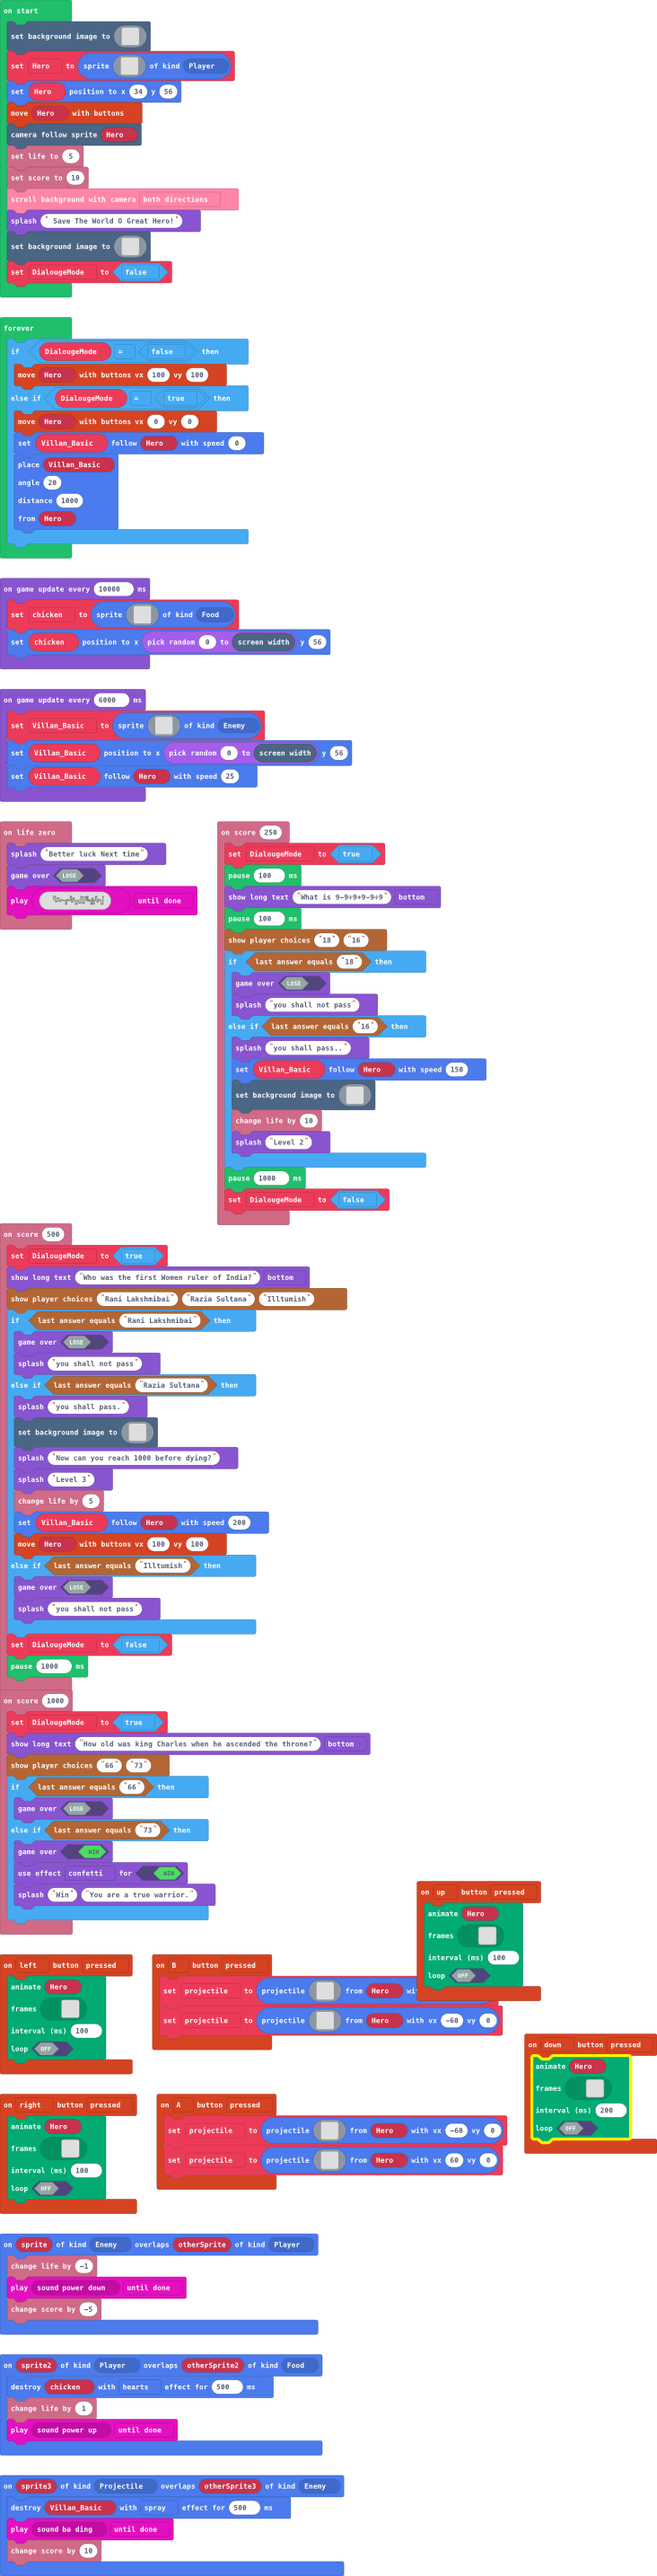
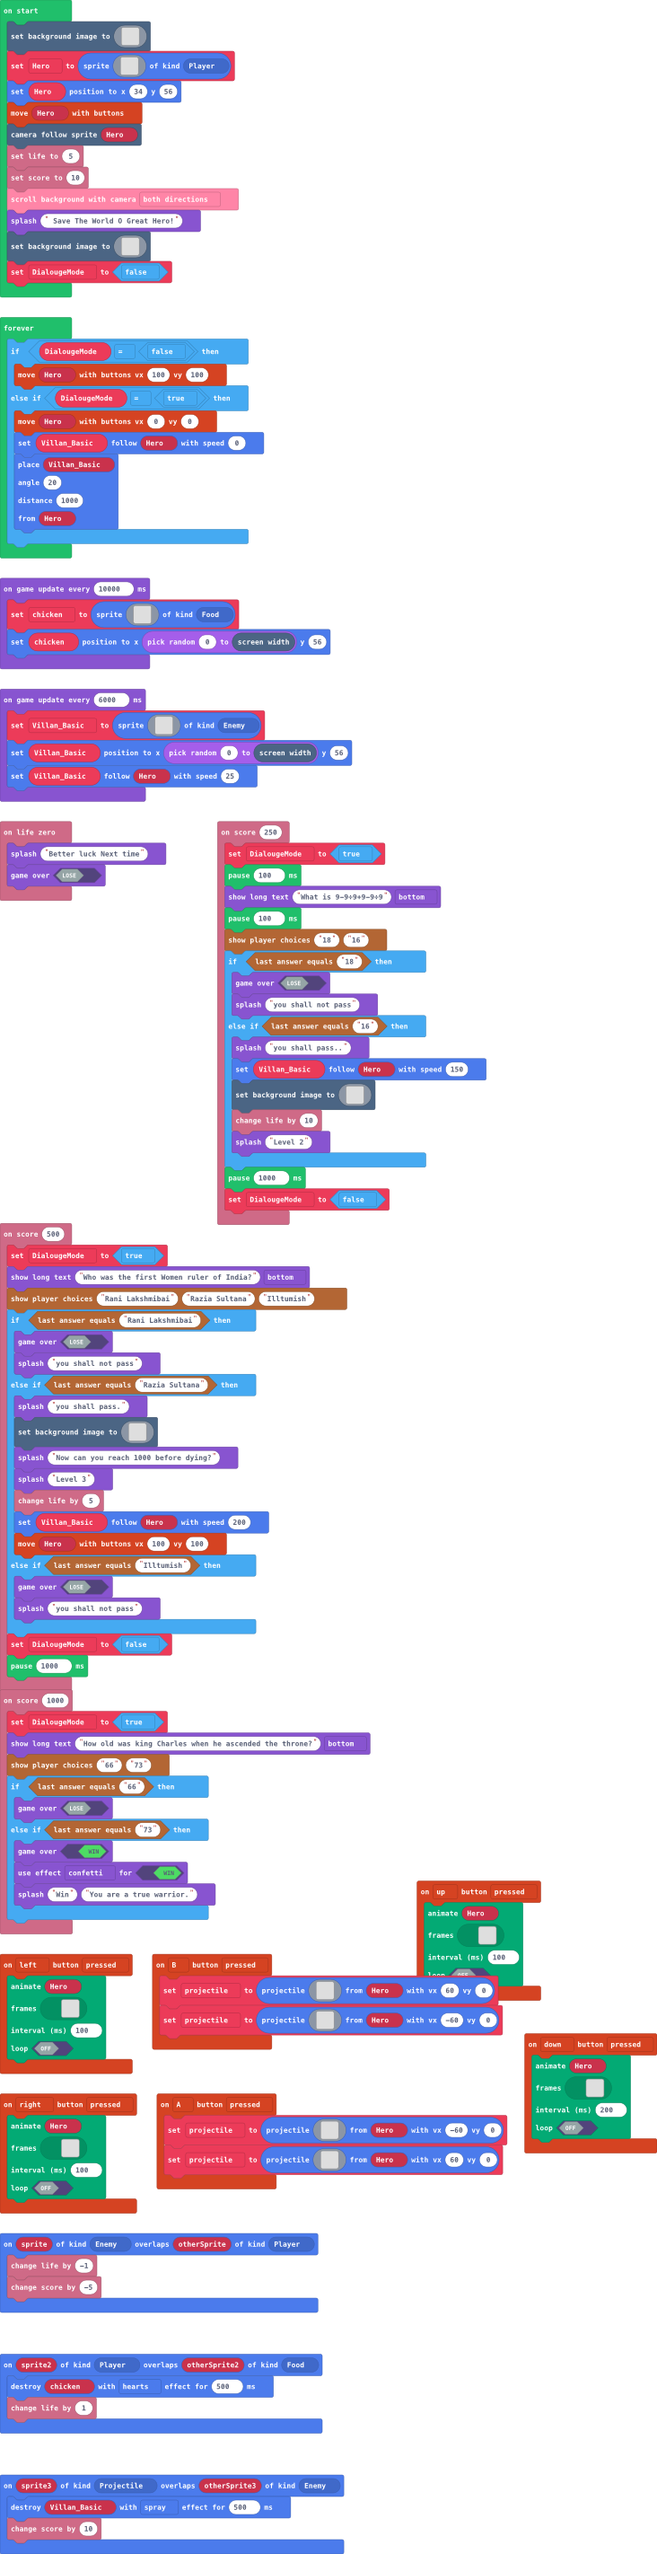
Update main.blocks, main.ts

Changed region(s): [[0.0, 0.0, 1.0, 0.9902]]

diff --git a/main.ts b/main.ts
@@ -460,7 +460,6 @@ controller.right.onEvent(ControllerButtonEvent.Pressed, function () {
 })
 sprites.onOverlap(SpriteKind.Enemy, SpriteKind.Player, function (sprite, otherSprite) {
     info.changeLifeBy(-1)
-    music.play(music.melodyPlayable(music.powerDown), music.PlaybackMode.UntilDone)
     info.changeScoreBy(-5)
 })
 controller.down.onEvent(ControllerButtonEvent.Pressed, function () {
@@ -542,12 +541,10 @@ controller.down.onEvent(ControllerButtonEvent.Pressed, function () {
 sprites.onOverlap(SpriteKind.Player, SpriteKind.Food, function (sprite2, otherSprite2) {
     sprites.destroy(chicken, effects.hearts, 500)
     info.changeLifeBy(1)
-    music.play(music.melodyPlayable(music.powerUp), music.PlaybackMode.UntilDone)
 })
 info.onLifeZero(function () {
     game.splash("Better luck Next time")
     game.gameOver(false)
-    music.play(music.createSoundEffect(WaveShape.Noise, 5000, 1, 151, 151, 564, SoundExpressionEffect.None, InterpolationCurve.Linear), music.PlaybackMode.UntilDone)
 })
 info.onScore(500, function () {
     DialougeMode = true
@@ -694,7 +691,6 @@ info.onScore(500, function () {
 })
 sprites.onOverlap(SpriteKind.Projectile, SpriteKind.Enemy, function (sprite3, otherSprite3) {
     sprites.destroy(Villan_Basic, effects.spray, 500)
-    music.play(music.melodyPlayable(music.baDing), music.PlaybackMode.UntilDone)
     info.changeScoreBy(10)
 })
 let chicken: Sprite = null
